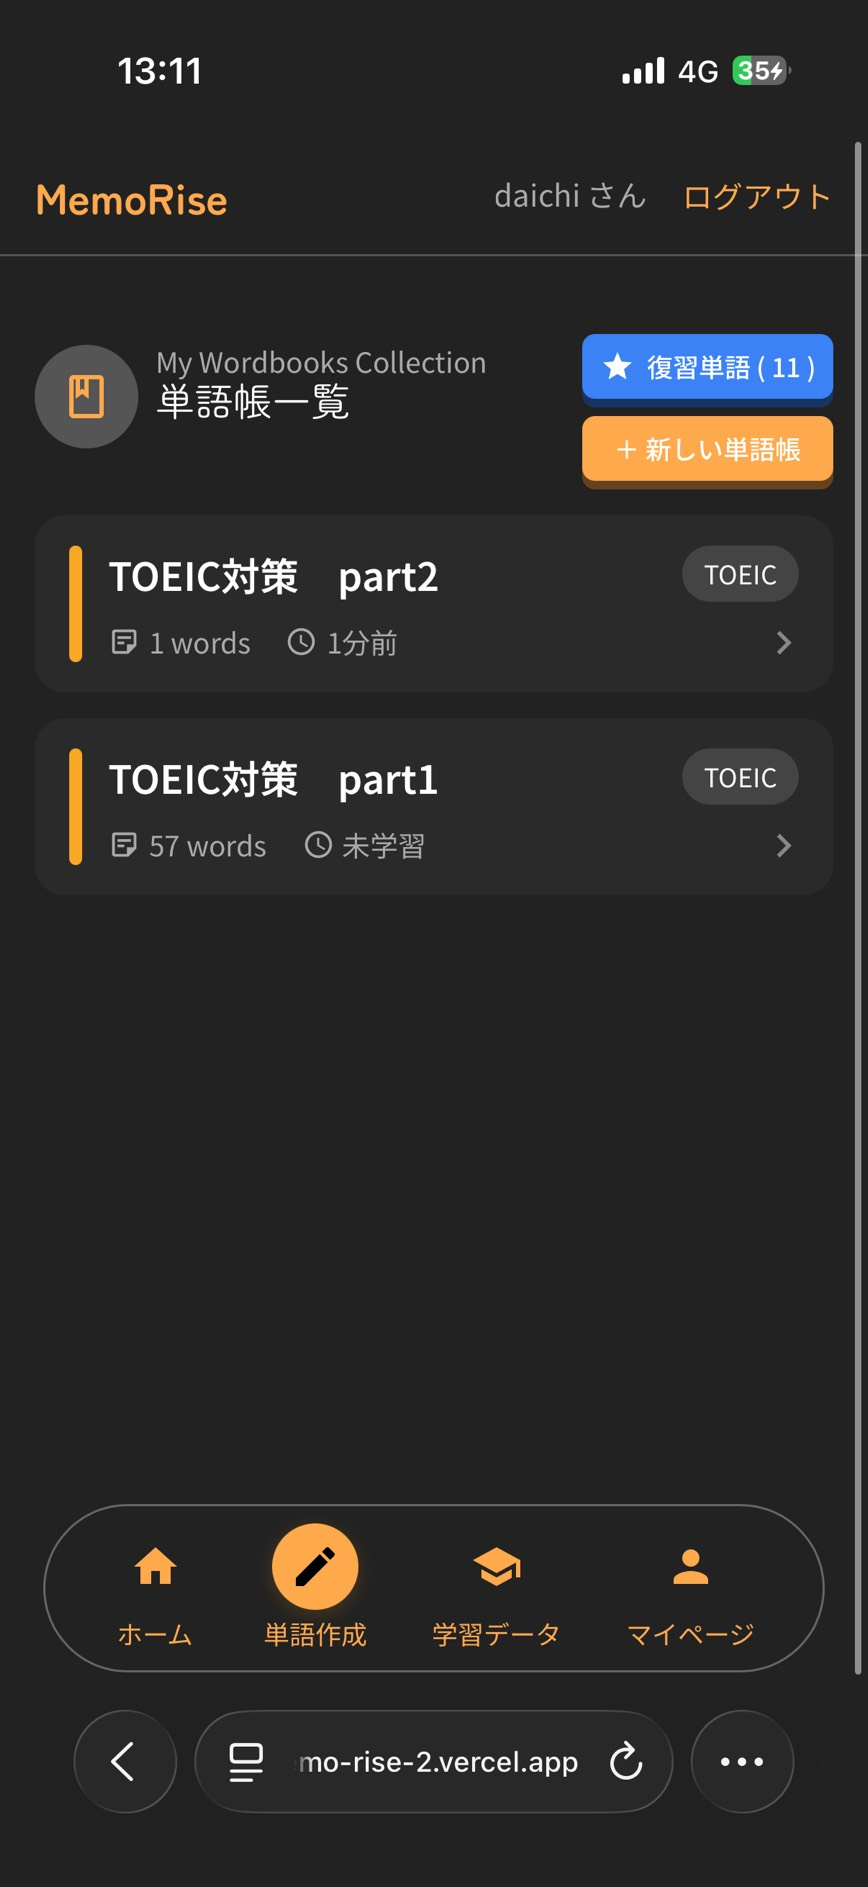
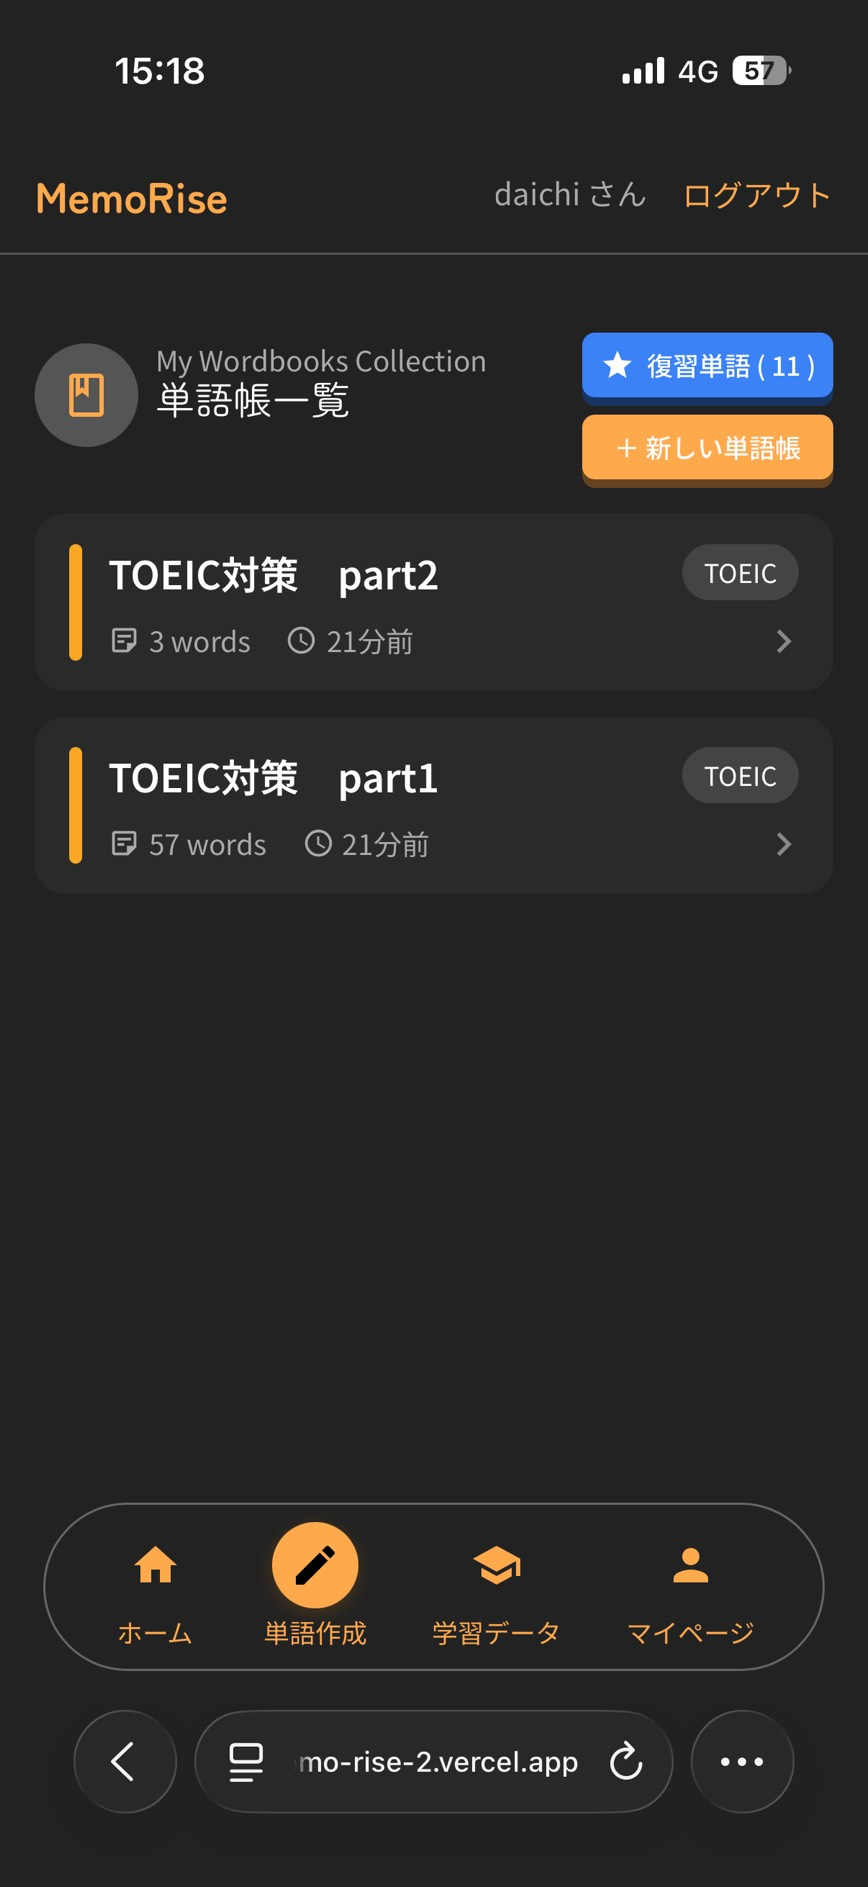
docs: README のスクリーンショットを全画面分に拡充
- ログイン / 公式単語帳 / テスト結果 / 復習 / マイページ / 管理者機能 / PC 表示を追加（計 19 枚）
- スクリーンショット節を学習の流れに沿った 5 節へ再構成し、PC 表示は冒頭に単独配置
- 公式単語帳は画像 + 説明の 2 カラムにして、章の解放の仕組みを説明図として見せる
- 「主な機能」を実装に合わせて修正（章の解放は公式単語帳側の機能。マイページはプロフィールと統計）
- docs/images/README.md に命名規則（PC 版・連番）と画面別の対応表を追記

diff --git a/docs/images/README.md b/docs/images/README.md
@@ -2,6 +2,25 @@
 
 README で参照する画面キャプチャを配置する。
 
-- 命名は `<画面名>-<連番>.jpg`（例: `top-01.jpg` / `wordbook-01.jpg` / `test-01.jpg` / `dashboard-01.jpg`）。
-- 実機（iPhone / Safari）で本番環境を撮影。README 側は `<img width="200">` で横並びに表示する。
+- 命名は `<画面名>-<連番>.jpg`。連番は 1 枚しかない画面でも付ける（`review.jpg` ではなく `review-01.jpg`）。
+- PC 表示だけは例外で `<画面名>-pc.png`（連番なし・横長のため PNG）。
+- 実機（iPhone / Safari）で本番環境を撮影。README 側は `<img width="180">` で横並びに表示する
+  （4 枚並べても GitHub の表示幅に収まるサイズ。5 枚以上になる節は表を 2 つに分ける）。
+  PC 表示のみ表に入れず `width="700"` で単独配置する。
 - 実在のメールアドレスなど個人情報が写り込んだものは置かない（デモ用アカウントで撮影する）。
+- 管理者のログイン情報は README にも画像にも載せない（管理画面は撮影のみ）。
+
+## 現在の画面と対応ファイル
+
+| 画面名 | ファイル | 内容 |
+| --- | --- | --- |
+| login | `login-01` | ログイン |
+| top | `top-01` / `top-02` / `top-03` | ホーム（今日の一問・復習バッジ / 自作単語帳の導線 / 継続記録） |
+| top（PC） | `top-pc.png` | ホームの PC ブラウザ表示（レスポンシブの裏付け） |
+| public | `public-01` | 公式単語集の教材トップ（章の進捗・解放状態） |
+| wordbook | `wordbook-01` / `wordbook-02` | 自作単語帳の一覧 / 詳細（単語の登録） |
+| test | `test-01` / `test-02` | 単語テスト（自己採点） / テスト結果 |
+| review | `review-01` | 復習単語（横断テスト） |
+| dashboard | `dashboard-01` / `dashboard-02` | 学習カレンダー / 学習記録の一覧 |
+| mypage | `mypage-01` | マイページ |
+| admin | `admin-01`〜`admin-05` | 管理者ダッシュボード / 公式単語帳の管理 / 章管理 / 統計 / CSV 一括登録 |
